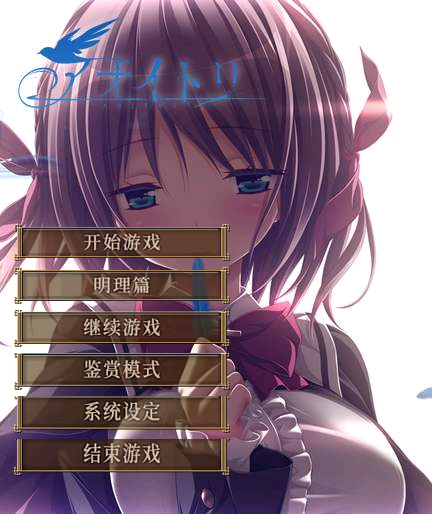
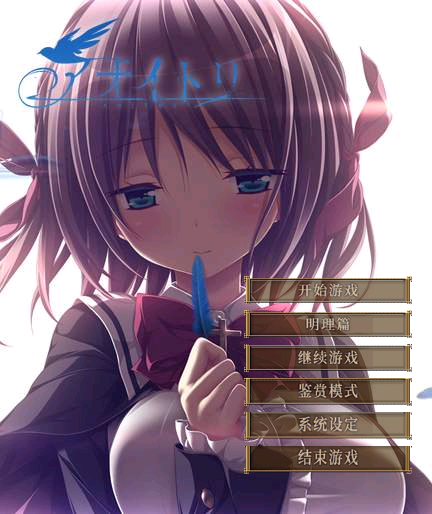
Right-align and resize title03 buttons to keep Akari unobstructed; update README & checksums

diff --git a/README.md b/README.md
@@ -11,7 +11,7 @@ Purple software《アオイトリ / AOI TORI》的 **REDMI Watch 5**（`432×514
 | Stage 1 · 初夜洋馆 (`title01`) | Stage 2 · 雪庭昼景 (`title02`) | Stage 3 · 真相明里 (`title03`) |
 | :---: | :---: | :---: |
 | ![title01](screenshots/title01.png) | ![title02](screenshots/title02.png) | ![title03](screenshots/title03.png) |
-| 默认标题 · `bgm36`（月下）· 居中竖排 | 序章结束后解锁 · `bgm36` · 居中竖排 | 三线通关后解锁`明里篇` · `bgm33`（青鸟）· 左对齐避让人物 |
+| 默认标题 · `bgm36`（月下）· 居中竖排 | 序章结束后解锁 · `bgm36` · 居中竖排 | 三线通关后解锁`明里篇` · `bgm33`（青鸟）· 右对齐缩放避让人物 |
 
 ---
 
@@ -19,7 +19,7 @@ Purple software《アオイトリ / AOI TORI》的 **REDMI Watch 5**（`432×514
 
 - **包体与规格**：
   - 包名：`com.antigravity.aoitori.rw5` · 应用名：`アオイトリ`（`v1.0.0`，`designWidth: 432`）
-  - 签名包体积：`24,747,409 B`（`< 25,000,000 B` 上限，余量 `252,591 B`），ZIP 条目：`3,175`（`<= 4,100`）
+  - 签名包体积：`24,747,521 B`（`< 25,000,000 B` 上限，余量 `252,479 B`），ZIP 条目：`3,175`（`<= 4,100`）
   - 编译器：`aiot-toolkit 1.1.0`
 - **完整中文剧本（仅 R18 版）**：
   - 去除全年龄/R18 剧本切换，整合为完整 R18 流程：共 `100` 个剧情节点、`184` 个剧本分片、`1,684` 张 BG/CG（鉴赏模式 `117` 组完整比例渲染，不裁切人物）与 `950` 个角色立绘资源（保留 `st-` / `up-` / square 原始比例，按角色槽位 `cid` 幂等切换与双/多立绘排版）。
